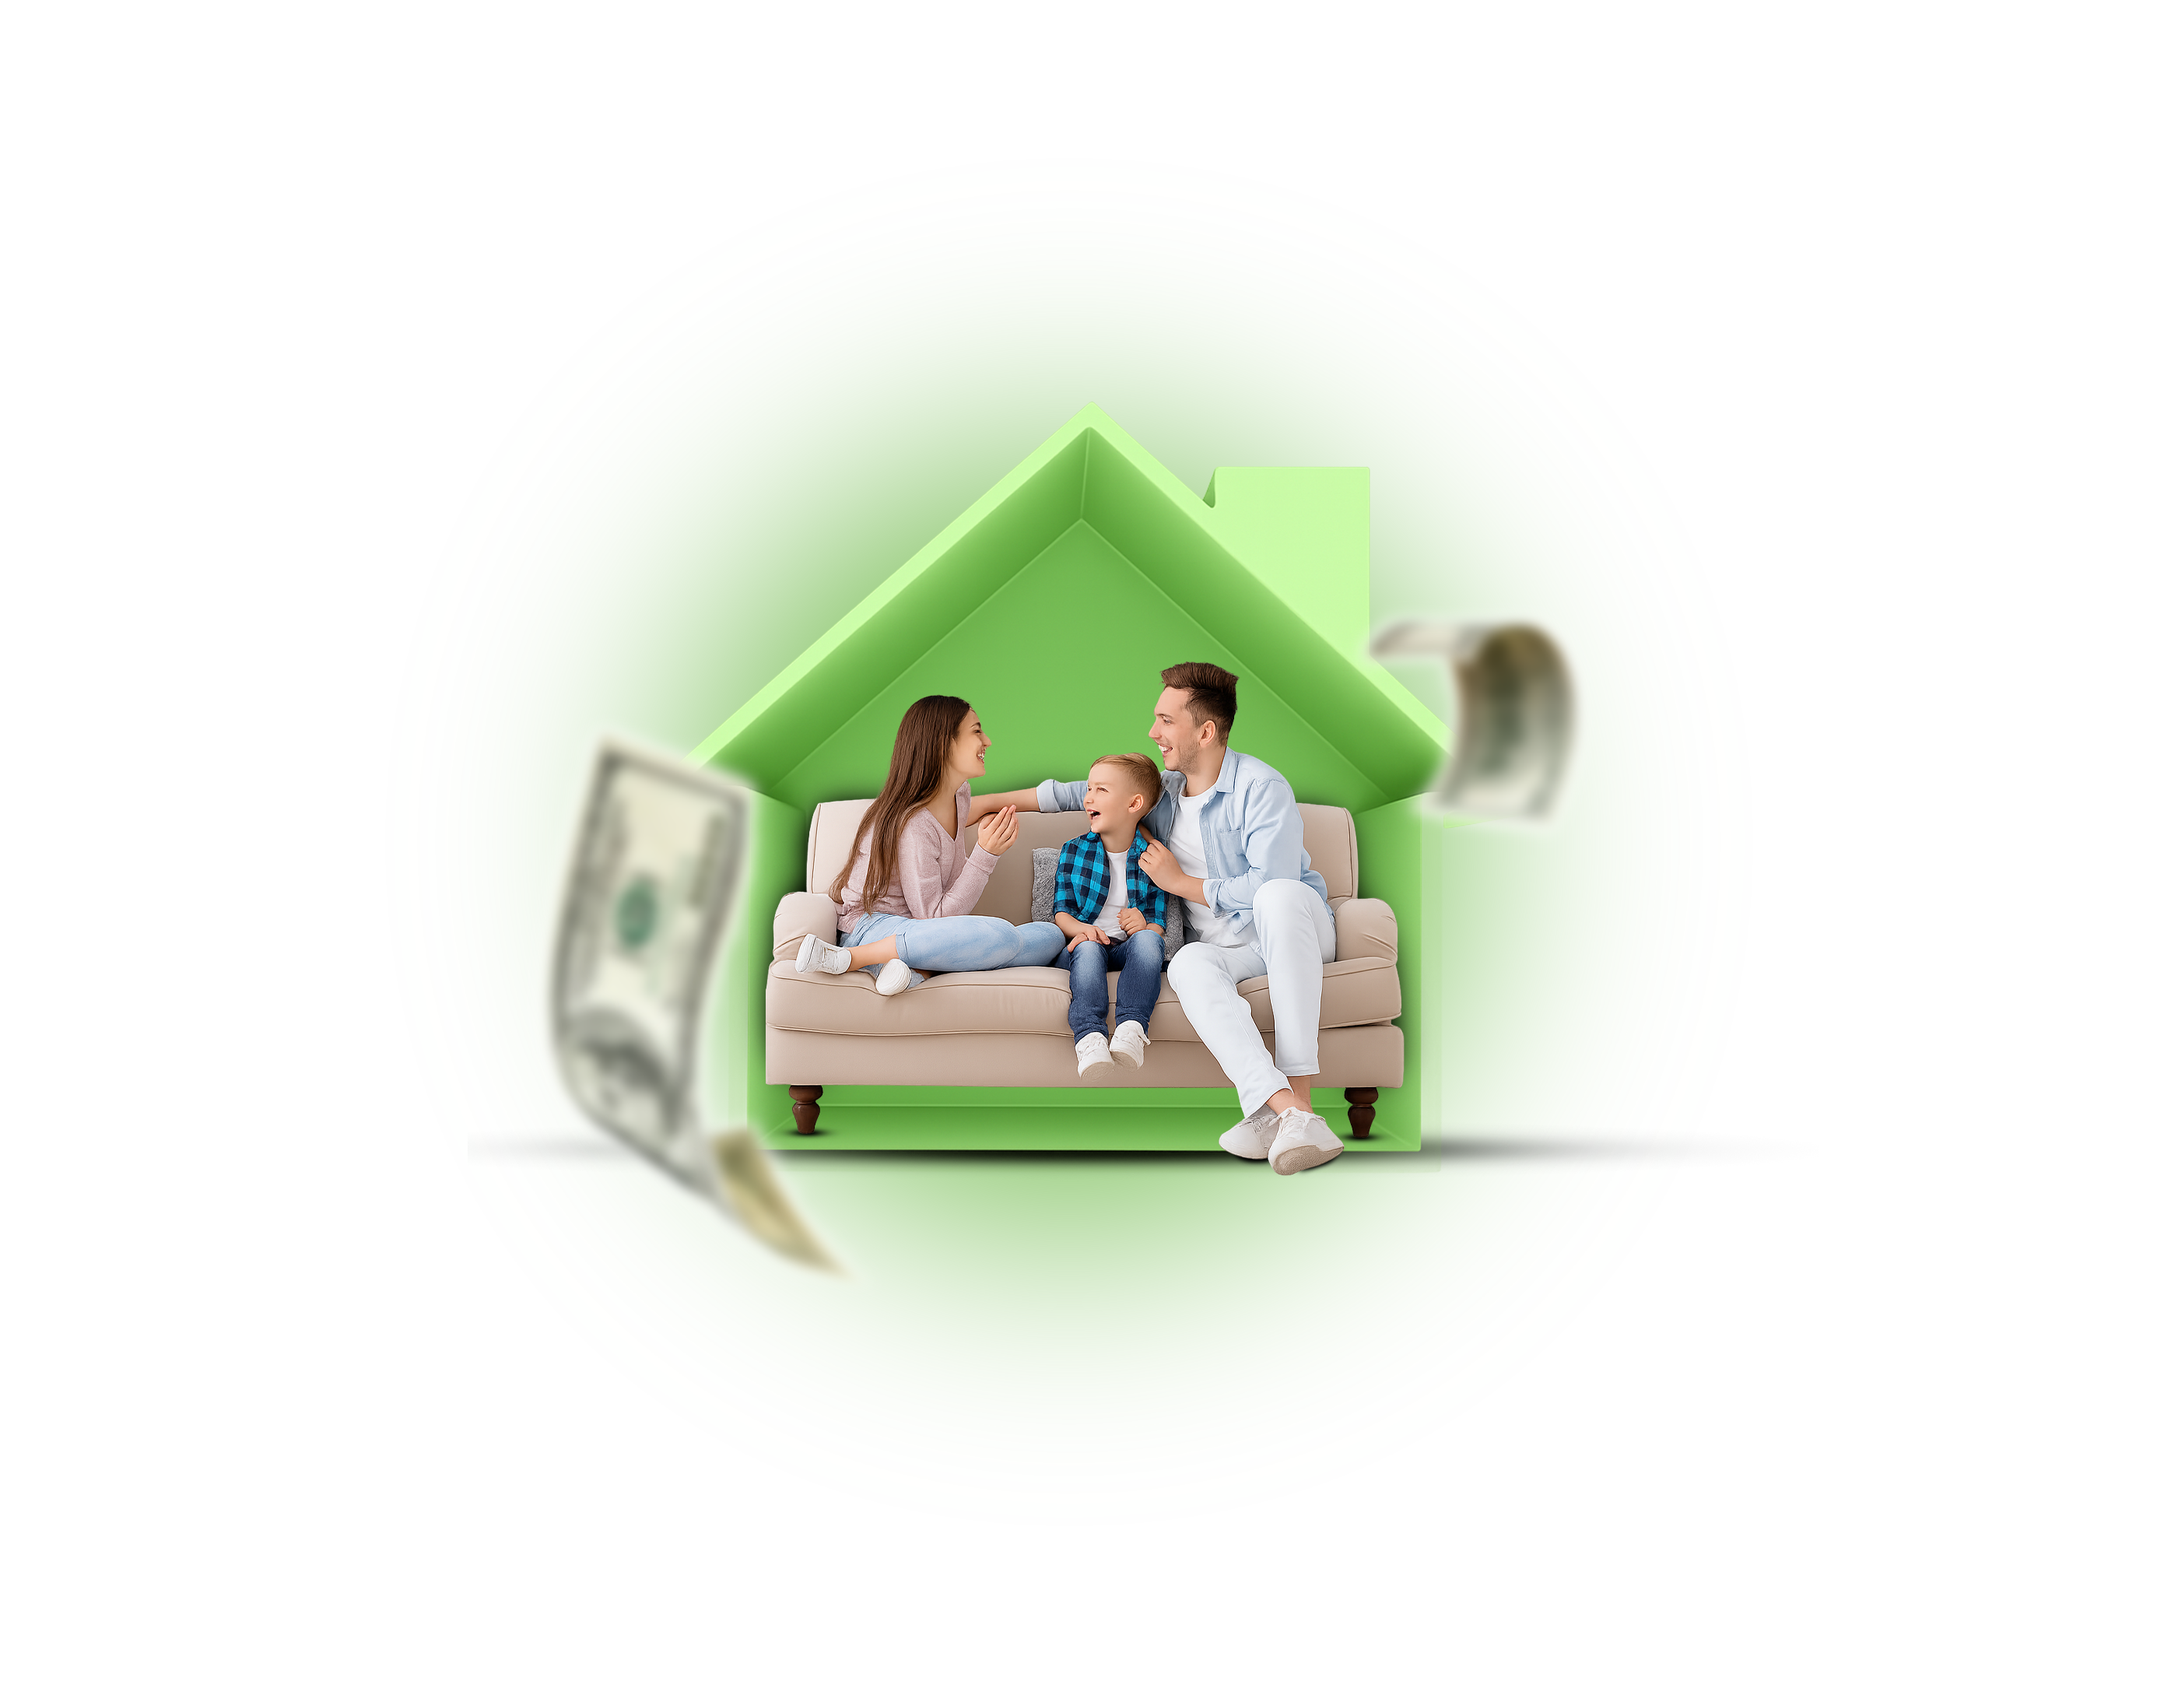
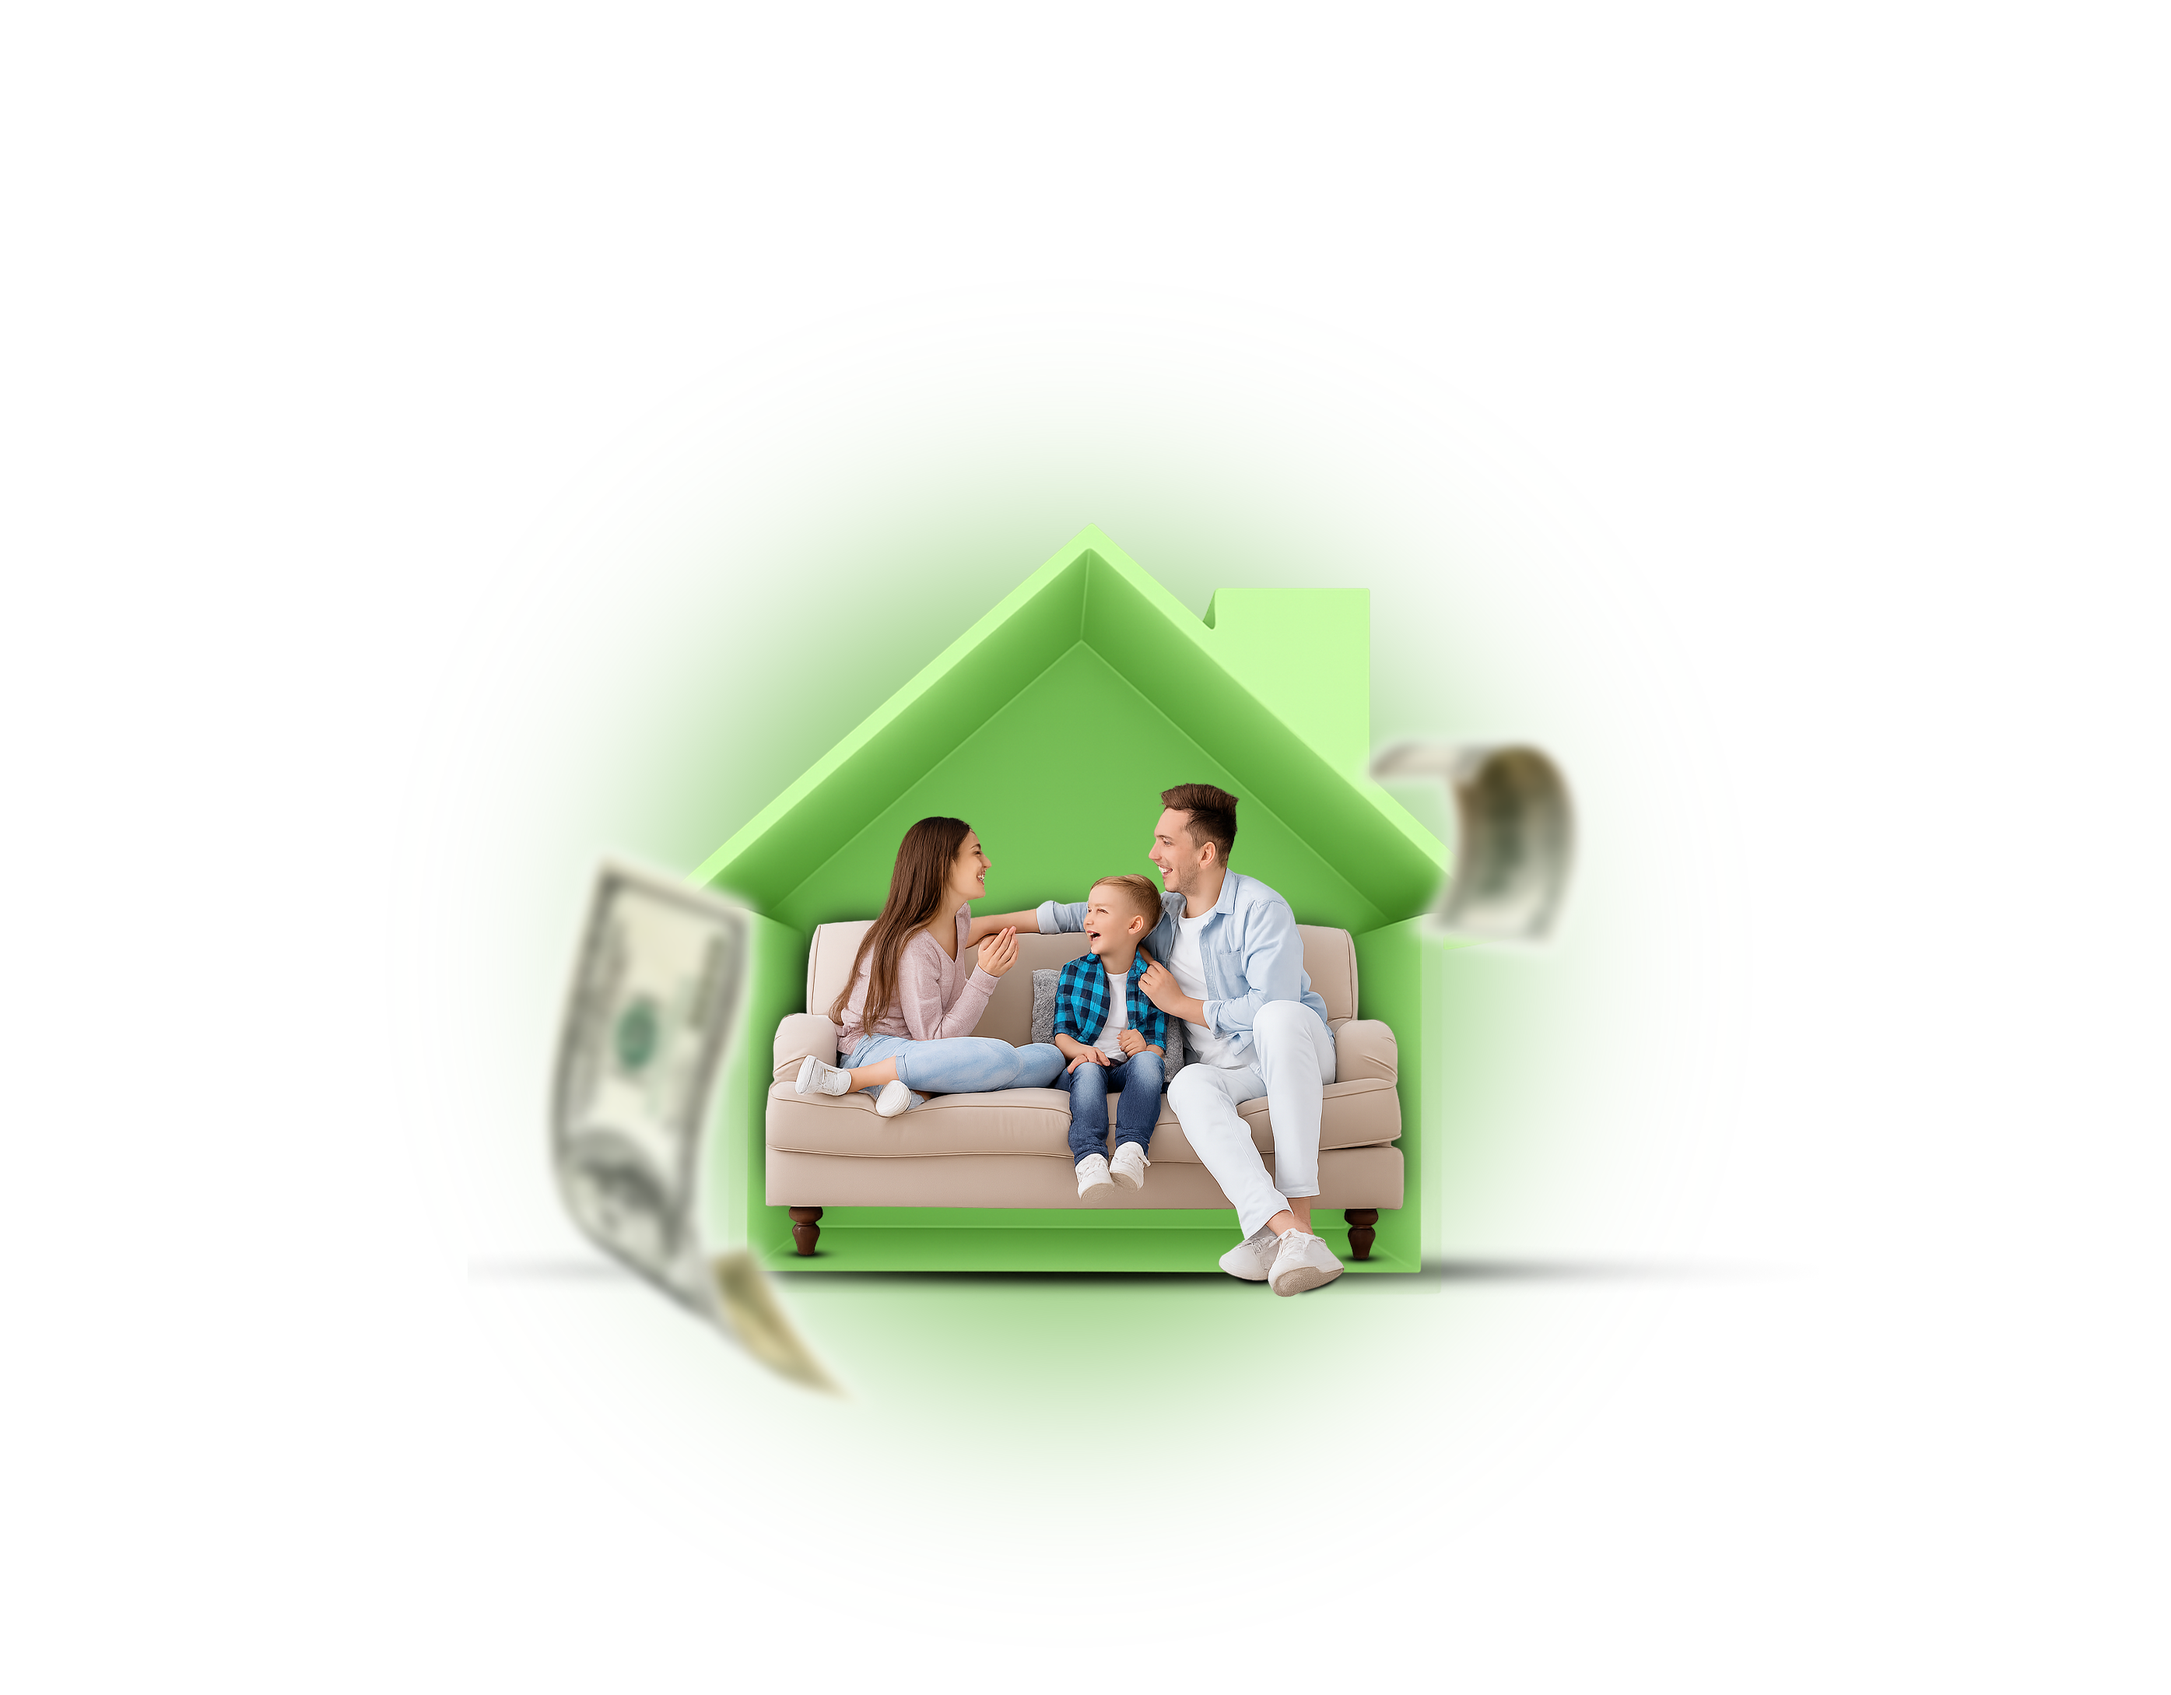
FINAL

Changed region(s): [[0.2495, 0.1873, 0.7484, 0.8742]]

diff --git a/V3/index.html b/V3/index.html
@@ -105,7 +105,7 @@
             border="0"
             width="600"
             style="
-              background-image: url('https://raw.githubusercontent.com/ChaosAfterParty/email_models/main/V3/assets/illustration.png');
+              background-image: url('https://raw.githubusercontent.com/ChaosAfterParty/email_models/main/V3/assets/01.png');
               background-size: cover;
               background-position: center;
               background-repeat: no-repeat;
